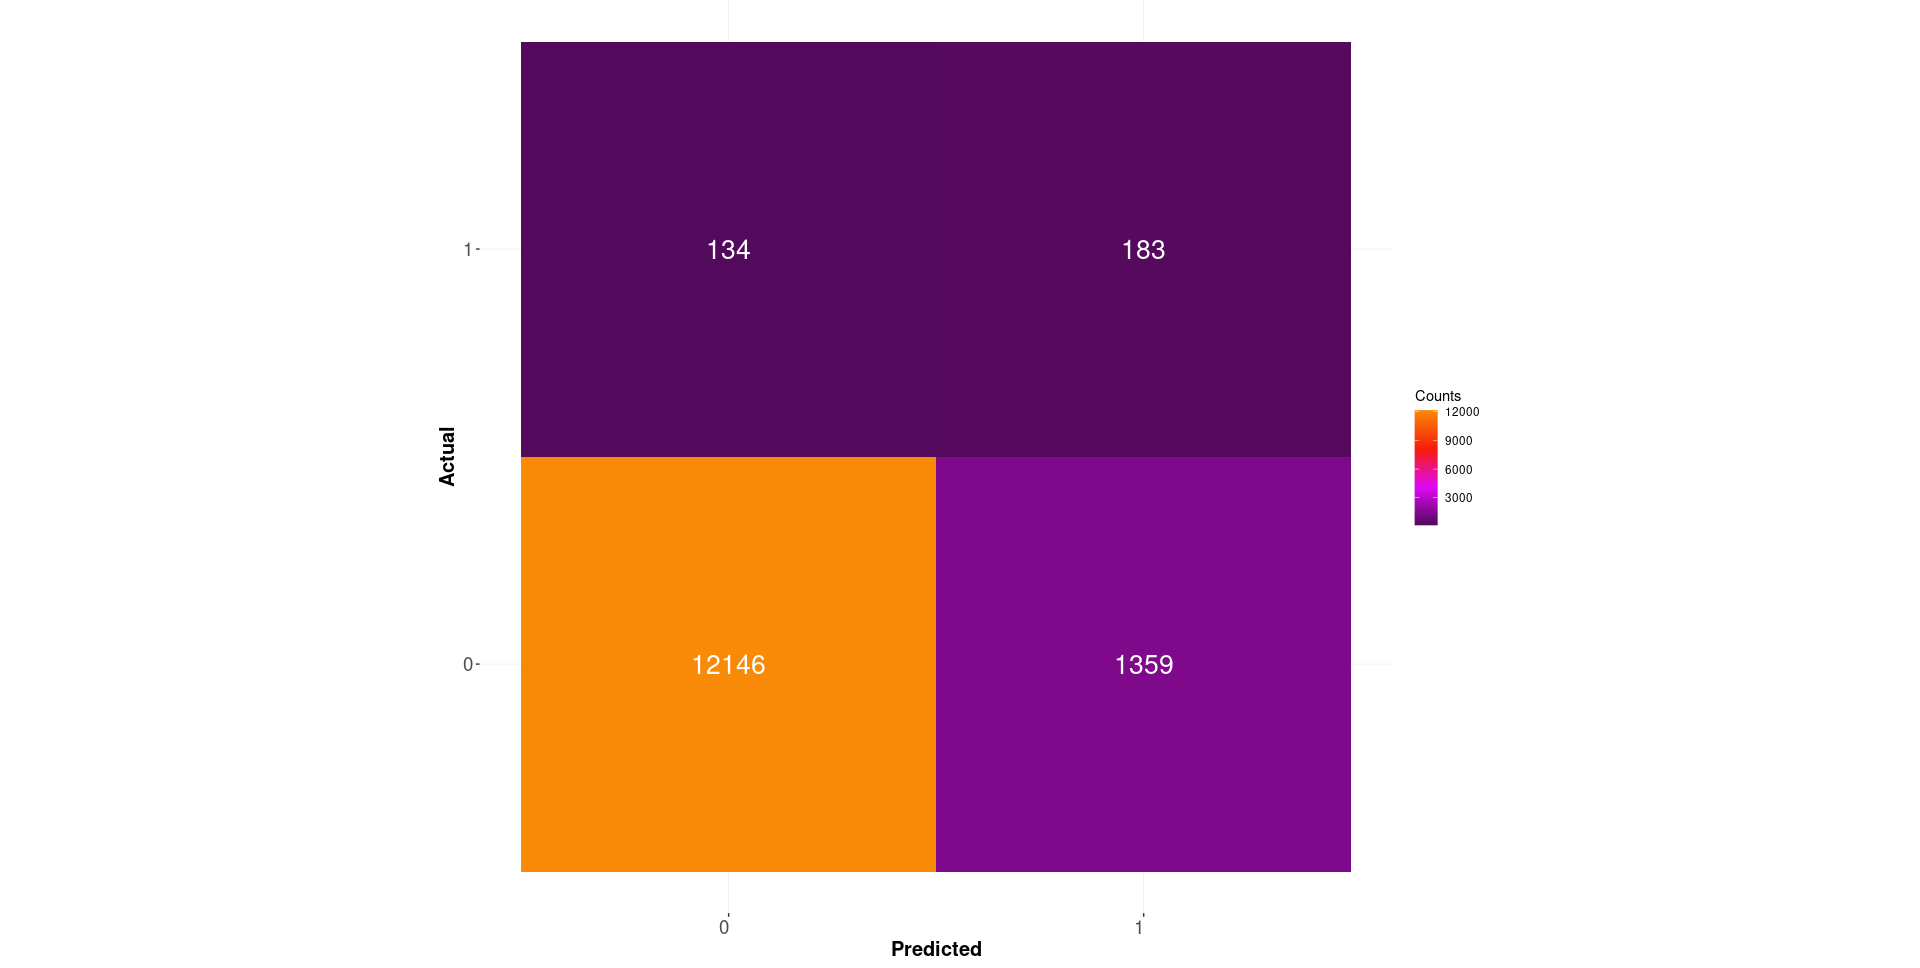
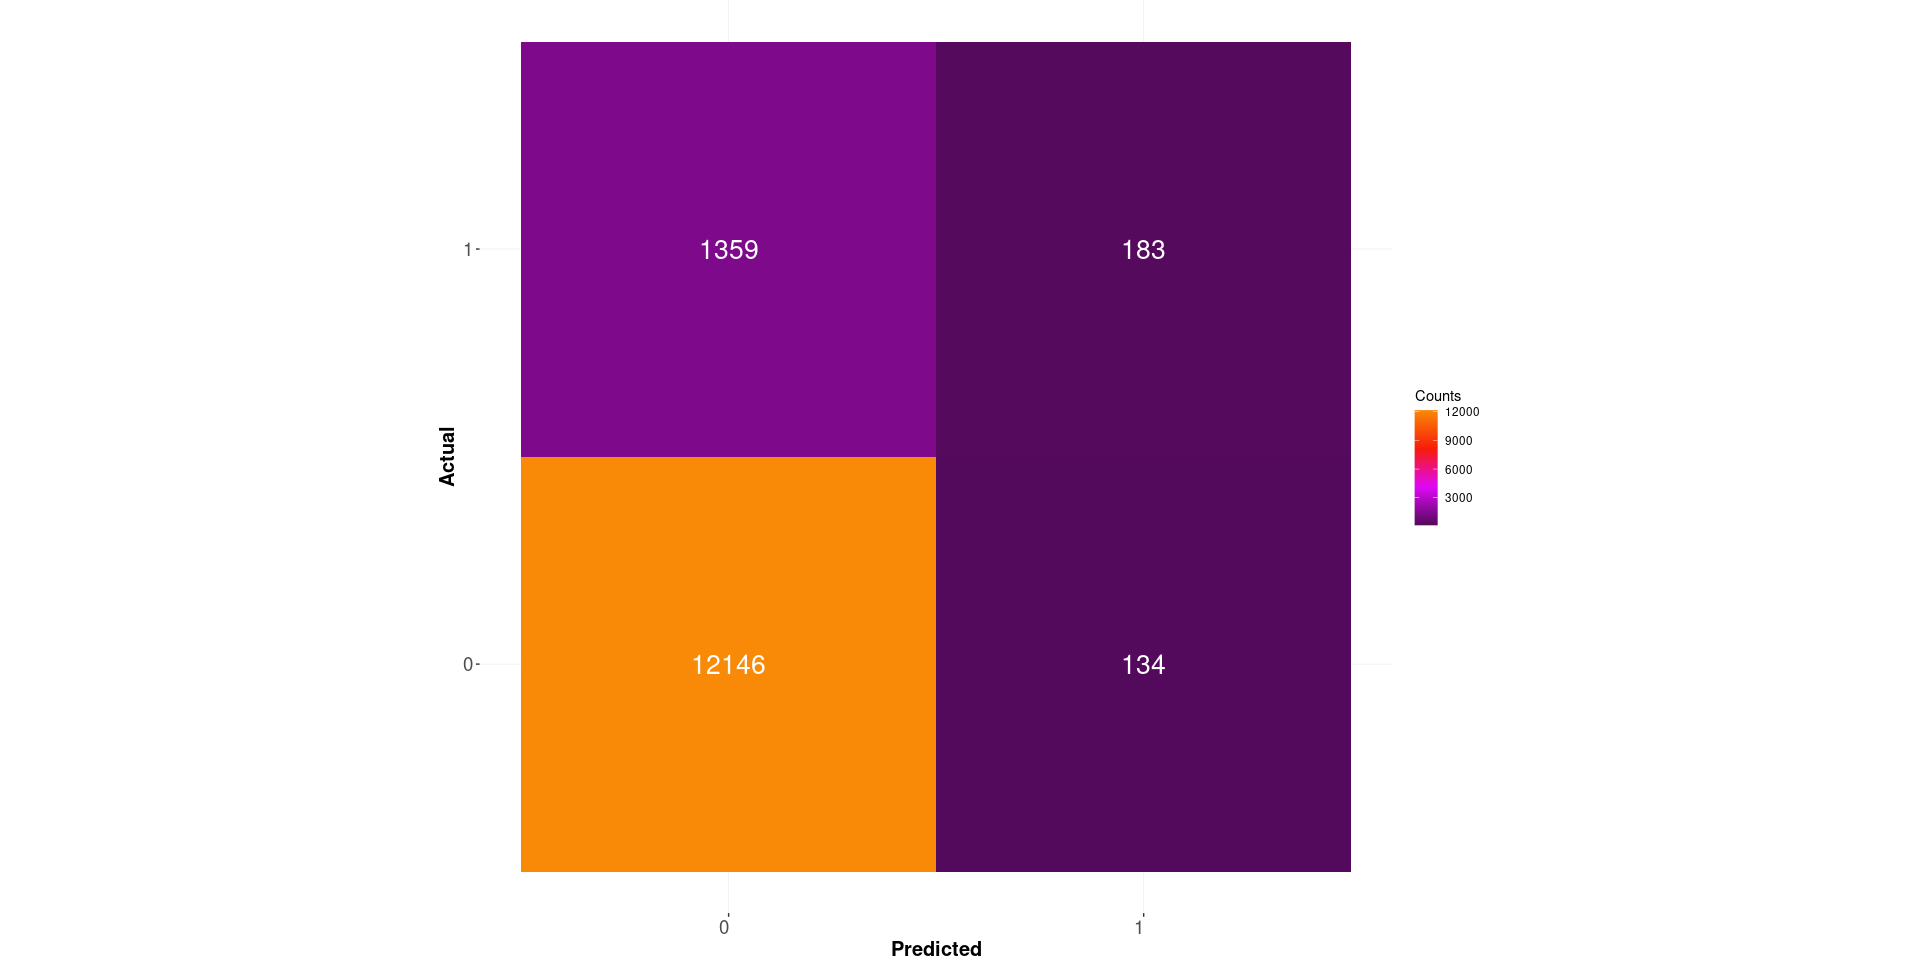
confusion matrix r plotly

Changed region(s): [[0.25, 0.031, 0.7188, 0.8988]]

diff --git a/Plot_types/Confusion_Matrix/Confusion_Matrix_Python_plotly.py b/Plot_types/Confusion_Matrix/Confusion_Matrix_Python_plotly.py
@@ -83,7 +83,7 @@ for x_ind, x_val in enumerate(x_vals):
         fig.add_annotation(
             x = x_val,
             y = y_val,
-            text = str(cm[x_ind, y_ind]),
+            text = str(cm[y_ind, x_ind]),
             showarrow = False,
             font = {
                 "color": "white",
